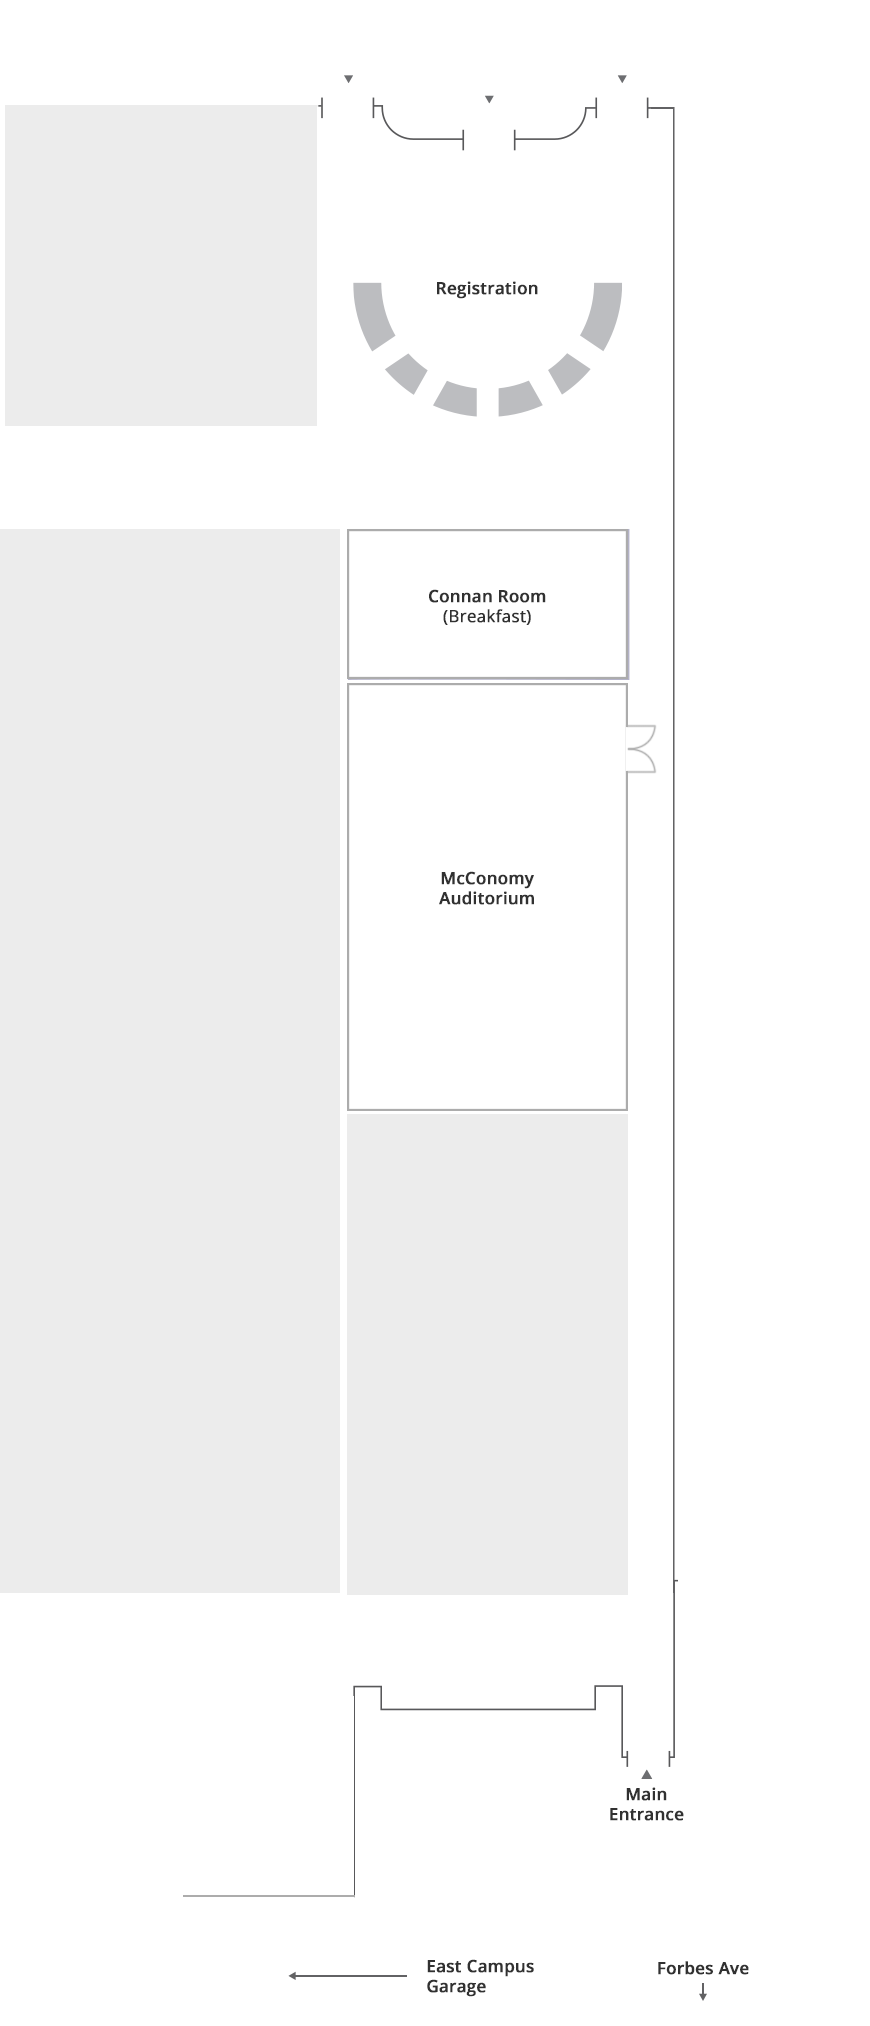
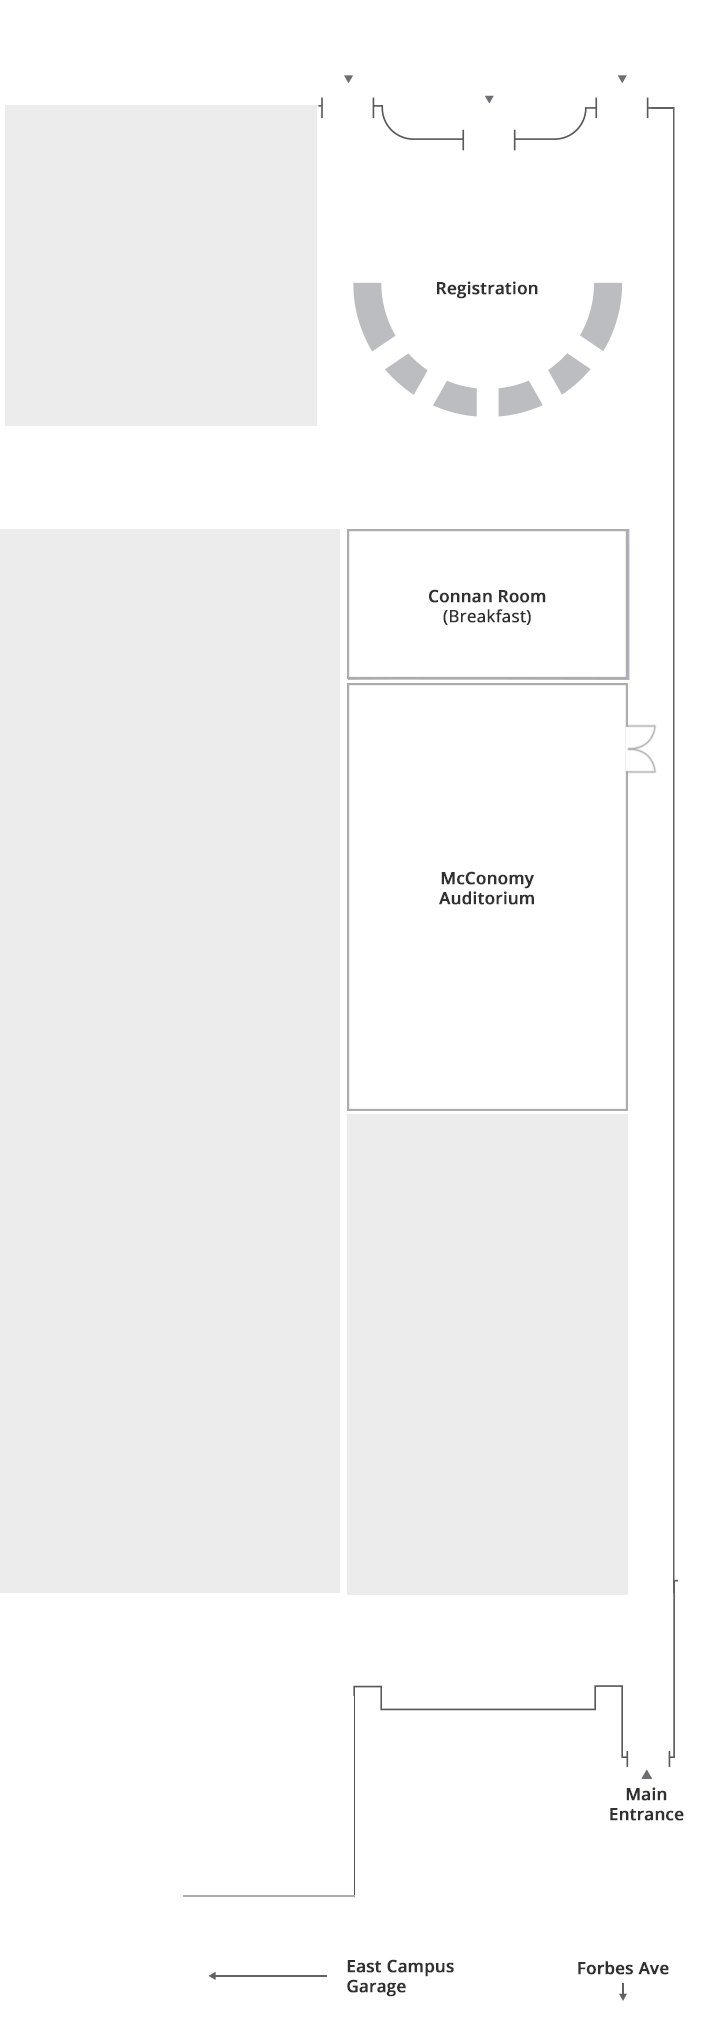
cropped map

diff --git a/src/components/map/map.css b/src/components/map/map.css
@@ -8,7 +8,10 @@
 }
 
 .indoor-map {
-  margin-left: 5%;
+  max-width: 703px;
+  display: block;
+  margin-left: auto;
+  margin-right: auto;
   padding-bottom: 20%;
   width: 90%;
   height: 90;
